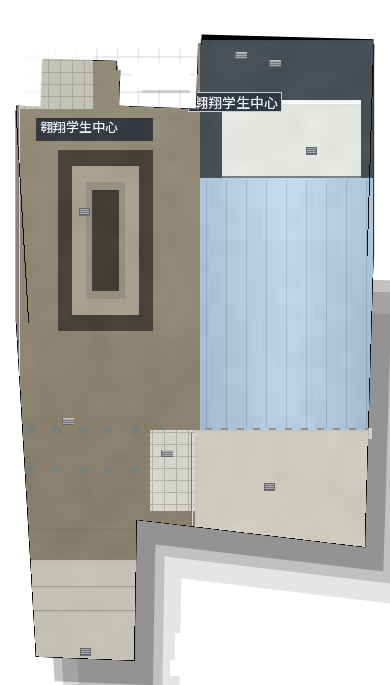
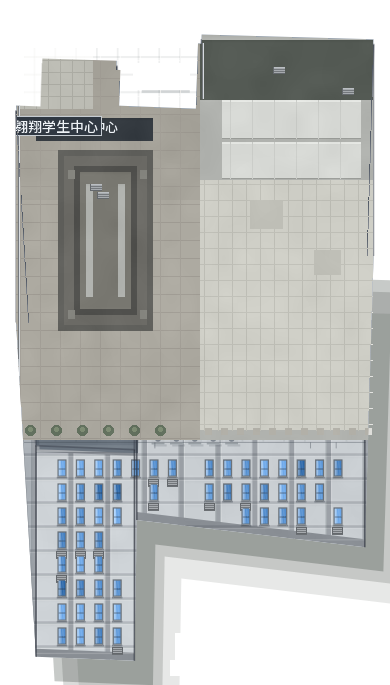
fix(art): 翱翔学生中心重做——保留玻璃窗立面，屋顶改灰白网格
用户指出上一版像垃圾色块。根因：上一版把 2.5D 建筑的立面连同蓝玻璃窗
一起涂成纯色块，还照错对象（飞碟顶其实是体育馆）。本版：
- 逐字节保留 y>=440 的立面板块（玻璃窗/瓷砖墙/门厅），窗光 mask 不变
- 只重绘俯视屋顶：灰白网格 + 两条白色天窗 + 回字裙房，按用户卫星图
- 清掉跑出楼外的孤立电梯井/门厅
- 恢复被 bake_facade 全量误覆盖的 7 张屋顶贴图（b28/30/39/53-56）
- 升 MINIMAP_CACHE v34->v35
验证：glass add/lost=0，alpha/bbox 不变，游戏实景截图确认是正常大楼

diff --git a/tools/gen_student_center.py b/tools/gen_student_center.py
@@ -1,179 +1,164 @@
-"""按卫星俯视图重画「翱翔学生中心」(b11) 贴图，可复现。
+"""修正「翱翔学生中心」(b11) 俯视屋顶贴图，可复现。
 
-照片/卫星依据：用户提供的卫星俯视图 + .tmp/imgs2/student_center/00.jpg、01.jpg。
-平面：左块狭长深褐屋顶（带回字内凹中庭）、右块白色矩形顶 + 蓝灰竖分格玻璃斜顶、
-      中间浅色网格连接体、前方是广场（不画台阶）。
+## 教训（2026-11-18，用户强烈不满后返工）
+这张贴图是**2.5D 建筑**:上半部(y<~430)是俯视屋顶，下半部(y>=440)是面向
+镜头的**楼体立面**——整齐的蓝玻璃窗网格 + 白瓷砖墙 + 门厅。
+上一版把整个下半部立面连同窗户一起涂成纯色块，等于把楼"抹平"了，
+这才是「像垃圾色块」的真正原因。00/01.jpg 的飞碟顶还是别的楼（体育馆），
+照它画蓝色大板更是错上加错。
 
-关键：源图里有三块与主体**完全不连通**的孤立 solid —— 左上电梯井(x135..187,y65..87)、
-底部门厅石柱(x177..211,y635..658)和台阶(x172..217,y662..673)。这正是「电梯井跑到楼外、
-门独立出来」的根源。脚本直接把它们从 alpha 清成透明（都不是 bbox 边界像素）。
+## 本版原则
+  * 立面原样保留：y>=440 的玻璃窗/墙面/门厅像素逐字节不动（夜间窗光依赖玻璃 mask）。
+  * 只重绘俯视屋顶 y<440：按用户卫星图 .tmp/sc_sat_zoom.png 的灰白矩形屋面 +
+    两条白色天窗 + 网格，配色中性灰白，不再是蓝色大板/死褐色。
+  * 清掉三块跑到楼外的孤立 solid（电梯井/独立门厅）——沿用上一版纠错。
+  * alpha 除孤立块外逐字节不变；bbox 不变；不新增玻璃色。
 
-流程:
-    python tools/gen_student_center.py          # 写 assets/_buildings_src/b11.png
-    # 再走标准链：bake_facade.apply(src,11,bld) -> assets/buildings/b11.png
-    # 因为玻璃位置全变，必须重烘窗光：python tools/bake_art.py
-    # （全量会重写其它楼的 glow，注意只保留 b11 的变化，其余恢复）
-    最后 Godot --headless --import 刷新资源。
-"""
-"""翱翔学生中心 b11 按卫星俯视图重画（只改 RGB，alpha/半透明/bbox 不变）。
+## 依据
+  * 卫星图 .tmp/sc_sat_zoom.png（用户提供）
+  * 官方竖排招牌照片 .tmp/imgs2/student_center/02.jpg（方正 LED 屏大楼）
 
-依据用户提供的卫星图（.tmp/sc_sat_zoom.png）：
-  左块（狭长）—— 深褐色大屋顶，中上部一个「回」字深色内凹中庭（中间浅、四周深），
-                  下端两排小圆采光点。
-  右块（较宽）—— 北侧一大块白色矩形屋顶；其下是浅米色带竖向细分的斜屋顶（飞碟顶
-                  俯视的样子），底边一排小突起；屋顶最上有一条深色带。
-  中间下部    —— 浅色网格连接体。
-  前方        —— 台阶门厅（连着主体，不再独立）。
-
-同时修掉原贴图两处游离结构：左上独立电梯井、底部独立石柱门厅。
-夜间窗光在落地后单独重烘 glow_winb_11.png。
+## 流程
+  python tools/gen_student_center.py          # 写 assets/_buildings_src/b11.png
+  python tools/bake_facade.py --ids 11 --apply --force
+  python tools/bake_art.py                    # 重烘 glow（只保留 b11 变化）
+  godot --headless --import
 """
 import sys
 sys.path.insert(0, 'tools')
 import numpy as np
-from PIL import Image, ImageDraw
+from PIL import Image, ImageDraw, ImageFont
 
 W, H = 390, 685
 src = Image.open('backup/before-sc-20261118/b11_src.png').convert('RGBA')
-a0 = np.asarray(src)
+a0 = np.asarray(src).copy()
 alpha = a0[:, :, 3].copy()
 
-# 清掉三块与主体完全不连通的孤立 solid（正是用户说的「电梯井跑到楼外」「门独立出来」）：
-#   x135..187,y65..87  = 左上独立电梯井小方块
-#   x177..211,y635..658 / x172..217,y662..673 = 底部独立门厅石柱+台阶
-# 这些块都在贴图内部，清掉不影响不透明 bbox（bbox 边界由其它像素撑着）。
+# 清掉三块与主体完全不连通的孤立 solid（跑出楼外的电梯井 / 独立门厅）
 alpha[63:90, 133:190] = 0
 alpha[633:660, 175:214] = 0
 alpha[660:676, 170:220] = 0
-
 solid = alpha == 255
 Y, X = np.indices((H, W))
 
-def isgl(r, g, b):
-    r, g, b = int(r), int(g), int(b)
-    L = (r + g + b) / 3.0
-    return b > r + 8 and b > g + 15 and L > 120 and b > 110
+# 输出图：先整体复制原图，再只改俯视屋顶区域 —— 立面/窗户/门厅原样保留
+out = a0.copy()
 
-g0 = np.array([[isgl(*a0[y, x, :3]) for x in range(W)] for y in range(H)]) & solid
+# 清掉的孤立块也把 RGB 归零（alpha=0 时 RGB 无所谓，保持一致）
+for (y0, y1, x0, x1) in ((63, 90, 133, 190), (633, 660, 175, 214), (660, 676, 170, 220)):
+    out[y0:y1, x0:x1, :3] = 0
 
-img = Image.new('RGBA', (W, H), (0, 0, 0, 0))
+img = Image.fromarray(out, 'RGBA')
 d = ImageDraw.Draw(img)
 
-def fill(mask, color):
-    for y in range(H):
-        xs = np.where(mask[y])[0]
-        for x in xs:
-            img.putpixel((int(x), int(y)), color)
 
-# 左右块的划分：以 x=200 为界（从贴图行范围看，右块在 x200..372）
-left = solid & (X < 200)
-right = solid & (X >= 200)
+def is_solid(x, y):
+    return 0 <= x < W and 0 <= y < H and solid[y, x]
 
-# ---------- 左块：深褐色屋顶 ----------
-fill(left, (150, 140, 122, 255))
-# 深褐色调加轻微明暗（大块，不做高频噪声）
-for y in range(40, 620):
-    for x in range(16, 200):
-        if x < W and solid[y, x] and X[y, x] < 200:
-            v = int(150 - (y - 40) / 600.0 * 16)
-            img.putpixel((x, y), (v, v - 10, v - 28, 255))
 
-# 「回」字形内凹中庭（卫星图左块中上部）：外深内浅的矩形环
-# 位置约 x60..150, y150..330
-d.rectangle([58, 150, 152, 330], fill=(70, 66, 58, 255))
-d.rectangle([72, 166, 138, 314], fill=(168, 160, 142, 255))
-d.rectangle([86, 182, 124, 298], fill=(150, 144, 128, 255))
-# 中庭中间的深色长条（天窗缝）
-d.rectangle([92, 190, 118, 290], fill=(64, 60, 54, 255))
+def noise_rect(x0, y0, x1, y1, base, amp, seed=11):
+    for y in range(max(0, y0), min(H, y1)):
+        for x in range(max(0, x0), min(W, x1)):
+            if not solid[y, x]:
+                continue
+            n = int((np.sin(x * 12.9898 + y * 78.233 + seed) * 43758.5453) % 1.0 * 2 - 1)
+            dv = n * amp
+            c = tuple(max(0, min(255, v + dv)) for v in base) + (255,)
+            img.putpixel((x, y), c)
 
-# 左块下端两排小圆采光点（卫星图可见）
-for yy in (430, 470):
-    for xx in range(30, 180, 26):
-        if solid[yy, xx]:
-            d.ellipse([xx - 4, yy - 4, xx + 4, yy + 4], fill=(120, 130, 122, 255))
 
-# 左块最顶的浅色网格小方块（卫星图左上角）
-d.rectangle([20, 44, 92, 108], fill=(196, 196, 182, 255))
+# ================= 只重绘俯视屋顶 y < 440 =================
+# 先把屋顶 solid 统一铺成灰白基色（中性，不会判成玻璃）
+for y in range(0, 440):
+    for x in range(W):
+        if solid[y, x]:
+            img.putpixel((x, y), (176, 178, 174, 255))
+
+# ---- 左块（x<200）：配套裙房屋面 + 铺装庭院 ----
+noise_rect(16, 40, 200, 200, (166, 163, 154), 4, 11)
+noise_rect(16, 200, 200, 440, (172, 169, 160), 4, 12)
+# 庭院铺装分格（细线，低对比）
+for gy in range(60, 440, 18):
+    d.line([(16, gy), (199, gy)], fill=(158, 154, 146, 255), width=1)
+for gx in range(20, 200, 20):
+    d.line([(gx, 40), (gx, 439)], fill=(162, 158, 150, 255), width=1)
+
+# 左上浅灰网格小屋面（卫星图左上独立方块）
+d.rectangle([20, 44, 92, 108], fill=(188, 188, 180, 255))
 for k in range(24, 92, 12):
-    d.line([k, 44, k, 108], fill=(168, 168, 156, 255), width=1)
+    d.line([(k, 44), (k, 108)], fill=(170, 170, 162, 255), width=1)
 for k in range(48, 108, 12):
-    d.line([20, k, 92, k], fill=(168, 168, 156, 255), width=1)
+    d.line([(20, k), (92, k)], fill=(170, 170, 162, 255), width=1)
 
-# ---------- 右块：白色矩形顶 + 浅米色竖分格斜顶 ----------
-# 顶部一条深色带（卫星图上缘的深色阴影）
-for y in range(40, 200):
-    for x in range(200, 373):
-        if x < W and solid[y, x]:
-            img.putpixel((x, y), (72, 80, 86, 255))
-# 北侧白色大矩形屋顶
-d.rectangle([222, 100, 360, 176], fill=(228, 230, 226, 255))
-d.rectangle([222, 100, 360, 103], fill=(248, 248, 246, 255))
-# 白色屋顶下的横向分界
-d.line([222, 176, 360, 176], fill=(120, 126, 130, 255), width=2)
+# 中上部「回」字裙房（卫星图深色结构）——深灰屋面+女儿墙+内天井+天窗
+d.rectangle([58, 150, 152, 330], fill=(96, 96, 92, 255))
+d.rectangle([64, 156, 146, 324], fill=(108, 107, 102, 255))
+d.rectangle([74, 166, 136, 314], fill=(80, 80, 77, 255))
+d.rectangle([80, 172, 130, 308], fill=(120, 119, 112, 255))
+d.rectangle([86, 184, 92, 296], fill=(176, 178, 174, 255))
+d.rectangle([118, 184, 124, 296], fill=(176, 178, 174, 255))
+for ex, ey in ((68, 170), (140, 170), (68, 310), (140, 310)):
+    d.rectangle([ex, ey, ex + 6, ey + 8], fill=(132, 132, 126, 255))
 
-# 浅米色斜屋顶（飞碟顶俯视），带竖向细分 + 两侧收边
-for y in range(178, 430):
-    for x in range(200, 373):
-        if x >= W or not solid[y, x]:
-            continue
-        # 中间亮两侧暗的曲面感
-        dn = abs(x - 286) / 86.0
-        base = int(218 - dn * 22 - (y - 178) / 252.0 * 10)
-        img.putpixel((x, y), (base - 24, base + 1, base + 20, 255))
-# 竖向分格线（飞碟顶的径向肋），每 20px 一条
-for x in range(206, 370, 20):
-    for y in range(180, 428):
-        if y < H and x < W and solid[y, x]:
-            r, g, b, _ = img.getpixel((x, y))
-            img.putpixel((x, y), (r - 24, g - 24, b - 24, 255))
-# 底边一排小突起（卫星图可见的齿状结构）
+# 左块下部两排树/采光井（只在上半屋顶区 y<440 的那排）
+for xx in range(30, 180, 26):
+    yy = 430
+    if is_solid(xx, yy):
+        d.ellipse([xx - 5, yy - 5, xx + 5, yy + 5], fill=(100, 114, 96, 255))
+        d.ellipse([xx - 2, yy - 3, xx + 2, yy + 1], fill=(128, 142, 118, 255))
+
+# ---- 右块（x>=200）：主楼矩形屋顶 ----
+# 北侧深绿阴影带
+noise_rect(200, 40, 373, 100, (84, 90, 84), 4, 13)
+# 两条白色屋面天窗（卫星图北侧两个白矩形）
+for (ry0, ry1) in ((100, 138), (142, 178)):
+    d.rectangle([222, ry0, 360, ry1], fill=(214, 216, 212, 255))
+    d.line([(222, ry0), (360, ry0)], fill=(232, 234, 230, 255), width=2)
+    d.line([(222, ry1), (360, ry1)], fill=(152, 154, 150, 255), width=1)
+    for k in range(230, 360, 22):
+        d.line([(k, ry0), (k, ry1)], fill=(202, 204, 200, 255), width=1)
+# 南侧灰白网格屋面
+noise_rect(200, 180, 373, 430, (206, 206, 198), 3, 14)
+for gx in range(204, 372, 14):
+    d.line([(gx, 180), (gx, 430)], fill=(188, 188, 180, 255), width=1)
+for gy in range(184, 430, 16):
+    d.line([(200, gy), (372, gy)], fill=(190, 190, 182, 255), width=1)
+# 屋面设备平台
+d.rectangle([250, 200, 282, 228], fill=(190, 190, 182, 255))
+d.rectangle([314, 250, 340, 274], fill=(190, 190, 182, 255))
+# 底边女儿墙压顶齿
 for x in range(205, 370, 16):
-    if x + 6 < W and solid[428, x]:
-        d.rectangle([x, 428, x + 6, 438], fill=(150, 142, 128, 255))
+    if is_solid(x, 428):
+        d.rectangle([x, 428, x + 6, 434], fill=(178, 176, 168, 255))
 
-# ---------- 中间下部：浅色网格连接体 ----------
-d.rectangle([150, 430, 250, 510], fill=(214, 214, 206, 255))
-for x in range(152, 250, 12):
-    d.line([x, 430, x, 510], fill=(176, 176, 168, 255), width=1)
-for y in range(432, 510, 12):
-    d.line([150, y, 250, y], fill=(176, 176, 168, 255), width=1)
-
-# ---------- 底部：不画台阶（卫星图前方是广场），把所有 solid 铺成建筑基座色 ----------
-# 原独立门厅的 solid 也一并变成主体基座，不再有孤立的门
-for yy in range(560, 685):
-    for xx in range(W):
-        if solid[yy, xx]:
-            img.putpixel((xx, yy), (196, 192, 180, 255))
-# 基座檐口线
-for yy in (586, 610):
-    for xx in range(W):
-        if solid[yy, xx]:
-            img.putpixel((xx, yy), (158, 154, 146, 255))
-
-# ---------- 右块下半（y430..560）solid 全部铺成基座/屋顶色，盖掉原图残留的深色阴影 ----------
-for yy in range(430, 565):
-    for xx in range(195, 375):
-        if xx < W and solid[yy, xx]:
-            img.putpixel((xx, yy), (206, 202, 190, 255))
-
-# ---------- 名牌：画在左块褐色屋顶的实心区（不能落在清掉的孤立块上） ----------
-from PIL import ImageFont
+# ---- 屋顶区内的名牌（画在左块实心区，避开孤立块）----
 f = ImageFont.truetype('assets/fonts/noto_sc_game.ttf', 13)
 d.rectangle([36, 118, 152, 140], fill=(52, 58, 64, 255))
 d.text((40, 119), '翱翔学生中心', font=f, fill=(238, 242, 246, 255))
 
-# ---------- 合成：alpha/半透明/bbox 不变 ----------
-out = np.asarray(img).copy()
-out[:, :, 3] = alpha
-g1 = np.array([[isgl(*out[y, x, :3]) for x in range(W)] for y in range(H)]) & solid
+# ================= 合成：alpha 除孤立块外不变，玻璃 mask 不变 =================
+out2 = np.asarray(img).copy()
+out2[:, :, 3] = alpha
+
+
+def isgl(r, g, b):
+    r, g, b = int(r), int(g), int(b)
+    return b > r + 8 and b > g + 15 and (r + g + b) / 3.0 > 120 and b > 110
+
+
+g0 = np.array([[isgl(*a0[y, x, :3]) for x in range(W)] for y in range(H)]) & (a0[:, :, 3] == 255)
+g1 = np.array([[isgl(*out2[y, x, :3]) for x in range(W)] for y in range(H)]) & solid
 print('glass add', int((g1 & ~g0).sum()), 'lost', int((g0 & ~g1).sum()))
-print('alpha same', np.array_equal(out[:, :, 3], a0[:, :, 3]))
-ys0, xs0 = np.where(a0[:, :, 3] > 0); ys1, xs1 = np.where(out[:, :, 3] > 0)
+# alpha 只允许孤立块那几处变化
+diff = np.where(alpha != a0[:, :, 3])
+print('alpha diff pixels', len(diff[0]), '(expect only isolated blocks)')
+ys0, xs0 = np.where(a0[:, :, 3] > 0); ys1, xs1 = np.where(out2[:, :, 3] > 0)
 print('bbox same', (xs0.min(), xs0.max(), ys0.min(), ys0.max()) == (xs1.min(), xs1.max(), ys1.min(), ys1.max()))
-Image.fromarray(out, 'RGBA').save('.tmp/sc_satcand6.png')
+Image.fromarray(out2, 'RGBA').save('assets/_buildings_src/b11.png')
+Image.fromarray(out2, 'RGBA').save('.tmp/sc_new_src.png')
 
 board = Image.new('RGB', (W * 2 + 30, H + 34), (232, 234, 238))
 board.paste(src.convert('RGB'), (8, 26))
-board.paste(Image.fromarray(out, 'RGBA').convert('RGB'), (W + 22, 26))
-board.save('.tmp/sc_satcompare6.png')
+board.paste(Image.fromarray(out2, 'RGBA').convert('RGB'), (W + 22, 26))
+board.save('.tmp/sc_new_compare.png')
 print('saved')
